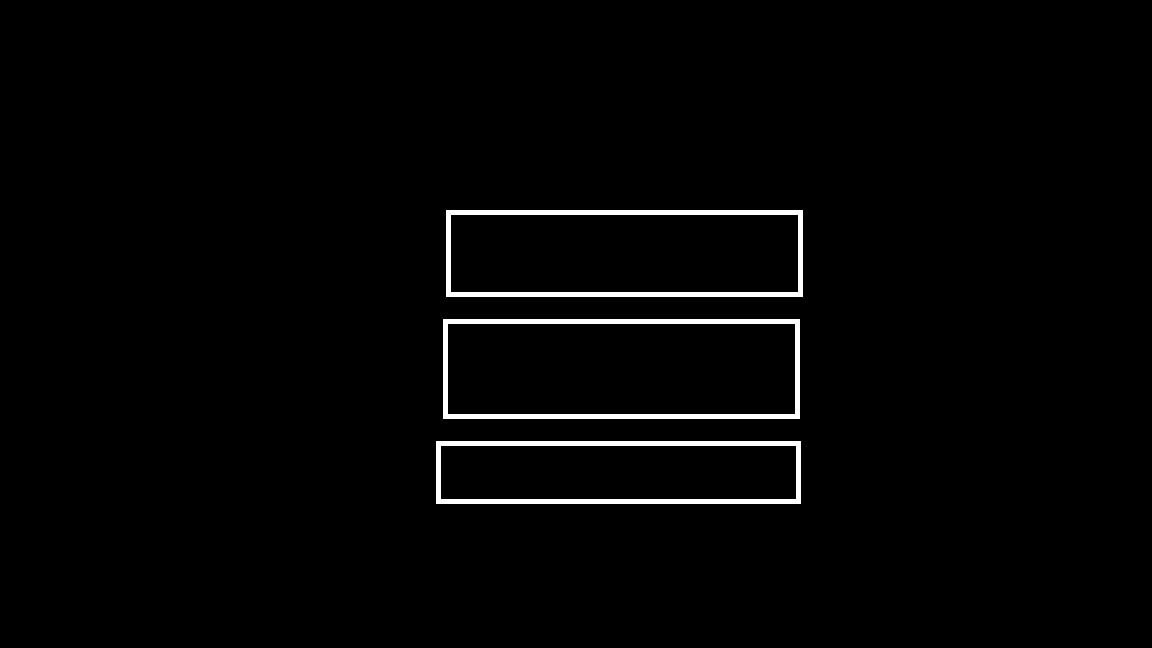
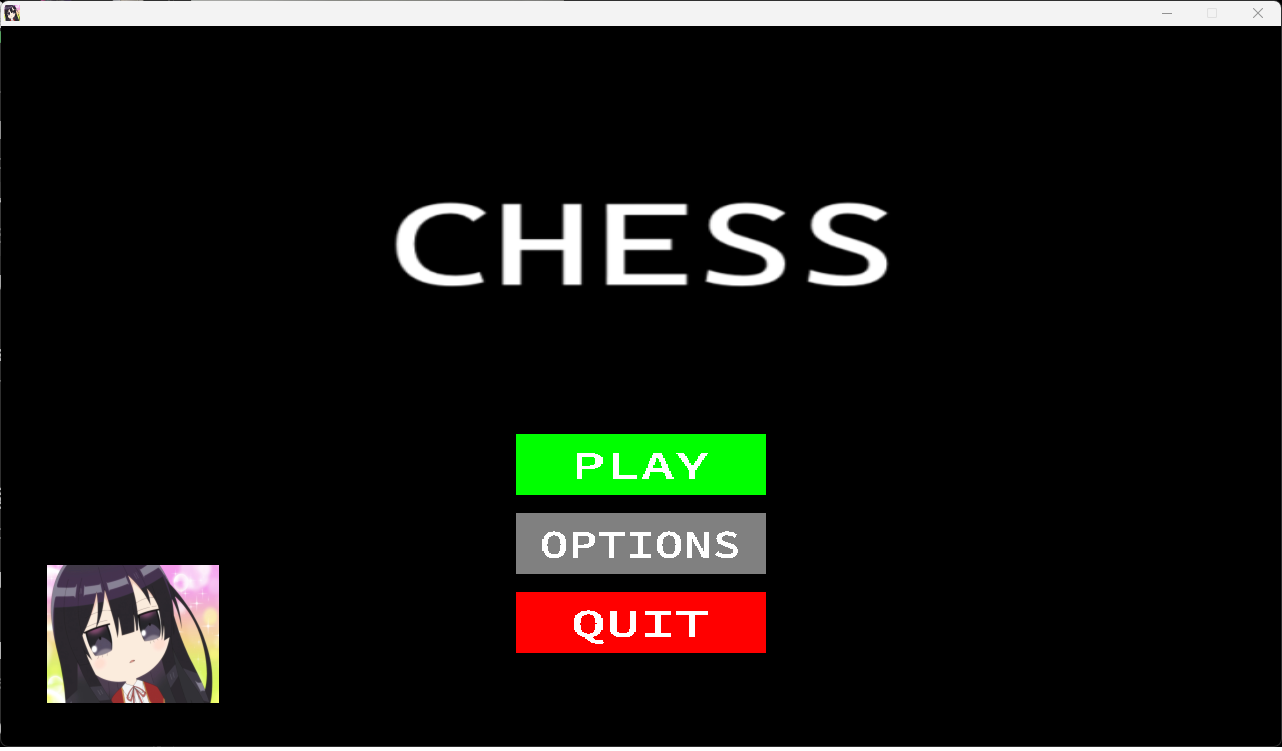
ed

diff --git a/Program.cpp b/Program.cpp
@@ -5,122 +5,83 @@
 #include <SDL2/SDL_mixer.h>
 #include <SDL2/SDL_image.h>
 
+#include "Constant.h"
 #include "Utilities.h"
 
-#define WIDTH               1280
-#define HEIGHT              720
-#define FPS                 120
-
-SDL_Window* Init();
+SDL_Window* InitWindow();
 void InitDriver(SDL_Window* window);
 SDL_Renderer* InitRenderer(SDL_Window* window);
-void MainLoop(std::function<void(SDL_Renderer*)>& loopFunc, std::function<void(SDL_Event*)>& eventFunc);
+
+void MainLoop(void(*loopFunc)(), void(*eventFunc)(SDL_Event* event));
 void CleanUp();
 
+// global window's objects
 SDL_Window* window;
 SDL_Renderer* renderer;
+bool running = true;
 
-TTF_Font* gSemiBold;
+Scene startScene;
+void InitStartScene() {
+    TTF_Font* primaryFont = TTF_OpenFont("./assets/font/SourceCodePro-SemiBold.ttf", 40);
+    TTF_Font* titleFont = TTF_OpenFont("./assets/font/SourceCodePro-ExtraBold.ttf", 100);
+    int btnW = 250, btnH = 65, posx = CalcPadding(WIDTH, btnW), posy = CalcPadding(HEIGHT, btnH) + btnH;
 
-class GameObject {
-private:
-    SDL_Texture* texture;
-    SDL_Rect position;
-public:
-    GameObject(SDL_Texture* texture, SDL_Rect position) : texture(texture), position(position) {}
-    GameObject(SDL_Renderer* renderer, SDL_Rect position) : position(position) {
-        this->texture = SDL_CreateTexture(renderer, SDL_PIXELFORMAT_RGBA8888, SDL_TEXTUREACCESS_TARGET, position.w, position.h);
+    GameObject* playBtn_ = CreateBtnObj(renderer, { "PLAY",primaryFont,white }, green, { posx,posy,btnW,btnH });
+    GameObject* optBtn_ = CreateBtnObj(renderer, { "OPTIONS",primaryFont,white }, grey, { posx,posy += btnH * 1.3,btnW,btnH });
+    GameObject* quitBtn_ = CreateBtnObj(renderer, { "QUIT",primaryFont,white }, red, { posx,posy += btnH * 1.3,btnW,btnH });
+
+    SDL_Texture* texture = WriteText(renderer, titleFont, "CHESS", white);
+    GameObject* test = new GameObject{ texture, new SDL_Rect{ CalcPadding(WIDTH,300),50,300,100 },-10 };
+
+    startScene.objects["playButton"] = playBtn_;
+    startScene.objects["optionButton"] = optBtn_;
+    startScene.objects["quitButton"] = quitBtn_;
+    startScene.objects["test"] = test;
+
+
+    startScene.displayObjects[playBtn_] = true;
+    startScene.displayObjects[optBtn_] = true;
+    startScene.displayObjects[quitBtn_] = true;
+    startScene.displayObjects[test] = true;
+
+    TTF_CloseFont(primaryFont);
+    TTF_CloseFont(titleFont);
+}
+void LoopStartScene() {
+    for (auto const& [key, value] : startScene.objects) {
+        if (startScene.displayObjects.at(value)) SDL_RenderCopyEx(renderer, value->texture, NULL, value->pos, value->angle, NULL, SDL_FLIP_NONE);
     }
-    GameObject(SDL_Renderer* renderer, SDL_Rect position, SDL_Color color) : position(position) {
-        this->texture = SDL_CreateTexture(renderer, SDL_PIXELFORMAT_RGBA8888, SDL_TEXTUREACCESS_TARGET, position.w, position.h);
+}
 
-        SDL_Rect rect = { 0,0,position.w,position.h };
-        SDL_SetRenderTarget(renderer, texture);
-        SDL_SetRenderDrawColor(renderer, color.r, color.g, color.b, color.a);
-        SDL_RenderFillRect(renderer, &rect);
+void EventStartScene(SDL_Event* event) {
 
-        SDL_SetRenderTarget(renderer, NULL);
+}
+
+void CleanStartScene() {
+    startScene.displayObjects.clear();
+    for (auto const& [key, value] : startScene.objects) {
+        SDL_DestroyTexture(value->texture);
+        delete value->pos;
+        delete value;
     }
-    GameObject(SDL_Renderer* renderer, SDL_Surface* surface, SDL_Rect position) : position(position) {
-        this->texture = SDL_CreateTextureFromSurface(renderer, surface);
-    }
-    ~GameObject() { SDL_DestroyTexture(texture); }
-
-    void AddTexture(SDL_Renderer* renderer, SDL_Texture* texture, SDL_Rect localPosition) {
-        SDL_SetRenderTarget(renderer, texture);
-        SDL_RenderCopy(renderer, texture, NULL, &localPosition);
-        SDL_SetRenderTarget(renderer, NULL);
-    }
-    void AddTexture(SDL_Renderer* renderer, SDL_Surface* surface, SDL_Rect localPosition) {
-        SDL_Texture* texture = SDL_CreateTextureFromSurface(renderer, surface);
-
-        SDL_SetRenderTarget(renderer, this->texture);
-        SDL_RenderCopy(renderer, texture, NULL, &localPosition);
-        SDL_SetRenderTarget(renderer, NULL);
-
-        SDL_DestroyTexture(texture);
-    }
-    void AddTexture(SDL_Renderer* renderer, SDL_Rect localPosition, SDL_Color color) {
-        SDL_SetRenderTarget(renderer, this->texture);
-        SDL_RenderFillRect(renderer, &localPosition);
-        SDL_SetRenderTarget(renderer, NULL);
-    }
-
-    SDL_Texture* GetTexture() const { return texture; }
-    SDL_Rect GetHitbox() const { return position; }
-
-    void Display(SDL_Renderer* renderer) const { SDL_RenderCopy(renderer, this->texture, NULL, &this->position); };
-};
-
-class Scene {
-private:
-    std::string name;
-    std::map<std::string, GameObject*> objects;
-public:
-    Scene(std::string name) : name(name), objects({}) {}
-    ~Scene() {
-        for (std::pair<std::string, GameObject*> x : objects) delete x.second;
-    }
-
-    void AddTexture(std::string name, SDL_Texture* texture, SDL_Rect position) {
-        GameObject* object = new GameObject(texture, position);
-        this->AddTexture(name, object);
-    }
-    void AddTexture(std::string name, GameObject* gameObject) {
-        this->objects[name] = gameObject;
-    }
-
-    void RemoveTexture(std::string name) {
-        delete this->objects.at(name);
-        this->objects.erase(name);
-    }
-    GameObject* GetGameObject(std::string name) { return this->objects.at(name); }
-
-    std::function<void(SDL_Renderer* renderer)> MainLoop;
-    std::function<void(SDL_Event* event)> EventListener;
-};
+}
 
 int main(int argc, char* argv[]) {
-    window = Init();
+    window = InitWindow();
     InitDriver(window);
     renderer = InitRenderer(window);
 
-    Scene startScene("startScene");
+    InitStartScene();
 
-    startScene.MainLoop = [&](SDL_Renderer* renderer) {};
-    startScene.EventListener = [&](SDL_Event* event) {
+    MainLoop(LoopStartScene, EventStartScene);
 
-        };
-
-    MainLoop(startScene.MainLoop, startScene.EventListener);
-
-    /* Release resources */
+    CleanStartScene();
     CleanUp();
 
     return 0;
 }
 
-SDL_Window* Init() {
+SDL_Window* InitWindow() {
     if (SDL_Init(SDL_INIT_EVERYTHING) != 0) {
         printf("Error initializing SDL: %s\n", SDL_GetError());
         exit(1);
@@ -138,13 +99,13 @@ SDL_Window* Init() {
 void InitDriver(SDL_Window* window) {
     if (TTF_Init() < 0) {
         printf("%s", TTF_GetError());
-        TTF_Quit();
+        CleanUp();
         exit(1);
     }
 
     if (IMG_Init(63) == 0) {
         std::cout << "Error Init Image" << std::endl;
-        IMG_Quit();
+        CleanUp();
         exit(1);
     }
 
@@ -152,8 +113,6 @@ void InitDriver(SDL_Window* window) {
     SDL_Surface* surface = IMG_Load("./assets/image/icon.png");
     SDL_SetWindowIcon(window, surface);
     SDL_FreeSurface(surface);
-
-    gSemiBold = TTF_OpenFont("./assets/font/SourceCodePro-SemiBold.ttf", 40);
 }
 SDL_Renderer* InitRenderer(SDL_Window* window) {
     SDL_Renderer* rend = SDL_CreateRenderer(window, -1, SDL_RENDERER_ACCELERATED | SDL_RENDERER_PRESENTVSYNC);
@@ -169,8 +128,7 @@ SDL_Renderer* InitRenderer(SDL_Window* window) {
     return rend;
 }
 
-void MainLoop(std::function<void(SDL_Renderer*)>& loopFunc, std::function<void(SDL_Event*)>& eventFunc) {
-    bool running = true;
+void MainLoop(void(*loopFunc)(), void(*eventFunc)(SDL_Event* event)) {
     SDL_Event event;
 
     while (running) {
@@ -178,7 +136,7 @@ void MainLoop(std::function<void(SDL_Renderer*)>& loopFunc, std::function<void(S
         SDL_SetRenderDrawColor(renderer, 0, 0, 0, 255);
         SDL_RenderClear(renderer);
 
-        loopFunc(renderer);
+        loopFunc();
 
         SDL_RenderPresent(renderer);
         while (SDL_PollEvent(&event)) {
@@ -193,7 +151,6 @@ void MainLoop(std::function<void(SDL_Renderer*)>& loopFunc, std::function<void(S
 void CleanUp() {
     SDL_DestroyRenderer(renderer);
     SDL_DestroyWindow(window);
-    TTF_CloseFont(gSemiBold);
 
     TTF_Quit();
     IMG_Quit();

diff --git a/src/Utilities.cpp b/src/Utilities.cpp
@@ -28,3 +28,29 @@ SDL_Texture* DisplayImage(SDL_Renderer* renderer, std::string const path) {
 
     return texture;
 }
+
+SDL_Texture* CreateBtnTex(SDL_Renderer* renderer, SDL_Texture* text, SDL_Color color, int width, int height) {
+    int w, h; SDL_QueryTexture(text, nullptr, nullptr, &w, &h);
+    SDL_Texture* result = SDL_CreateTexture(renderer, SDL_PIXELFORMAT_RGBA8888, SDL_TEXTUREACCESS_TARGET, w + width, h + height);
+
+    SDL_Rect fillRect{ 0,0,w + width,h + height }, imgRect{ width / 2,height / 2,w,h };
+
+    SDL_SetRenderTarget(renderer, result);
+    SDL_SetRenderDrawColor(renderer, color.r, color.g, color.b, color.a);
+    SDL_RenderFillRect(renderer, &fillRect);
+    SDL_RenderCopy(renderer, text, NULL, &imgRect);
+    SDL_SetRenderTarget(renderer, NULL);
+
+    SDL_DestroyTexture(text);
+
+    return result;
+}
+
+// template <typename T> T CalcPadding(T width, T innerWidth) { return (width - innerWidth) / 2; }
+GameObject* CreateBtnObj(SDL_Renderer* renderer, TextObj text, SDL_Color color, SDL_Rect position) {
+    int w, h; TTF_SizeText(text.font, text.content.c_str(), &w, &h);
+    SDL_Texture* texture = WriteText(renderer, text.font, text.content, text.color);
+    SDL_Texture* button = CreateBtnTex(renderer, texture, color, CalcPadding(position.w, w), CalcPadding(position.h, h));
+
+    return new GameObject{ button,new SDL_Rect(position) ,0 };
+}

diff --git a/src/Utilities.h b/src/Utilities.h
@@ -1,11 +1,37 @@
 #pragma once
 
 #include <string>
+#include <vector>
+#include <map>
 
 #include <SDL2/SDL.h>
 #include <SDL2/SDL_ttf.h>
 #include <SDL2/SDL_image.h>
 
+#define CalcPadding(width, innerWidth)          (((width) - (innerWidth)) / 2)
+
+struct GameObject {
+    SDL_Texture* texture;
+    SDL_Rect* pos;
+    int angle;
+};
+struct Scene {
+    std::map<std::string, GameObject*> objects;
+    std::map<GameObject*, bool> displayObjects;
+};
+
+struct TextObj {
+    std::string content;
+    TTF_Font* font;
+    SDL_Color color;
+};
+
 SDL_Texture* WriteText(SDL_Renderer* renderer, TTF_Font* font, std::string const message, SDL_Color color);
 SDL_Texture* DrawRect(SDL_Renderer* renderer, int width, int height, SDL_Color color = { 255,255,255,255 });
 SDL_Texture* DisplayImage(SDL_Renderer* renderer, std::string const path);
+
+SDL_Texture* CreateBtnTex(SDL_Renderer* renderer, SDL_Texture* text, SDL_Color color, int width = 10, int height = 10);
+
+GameObject* CreateBtnObj(SDL_Renderer* renderer, TextObj text, SDL_Color color, SDL_Rect position);
+
+// template <typename T> T CalcPadding(T width, T innerWidth);

diff --git a/Constant.h b/Constant.h
@@ -1,0 +1,23 @@
+#pragma once
+
+#include "SDL2/SDL.h"
+
+#define WIDTH               1280
+#define HEIGHT              720
+#define FPS                 120
+#define PI                  3.141592653
+
+const SDL_Color white{ 255,255,255,255 };
+const SDL_Color black{ 0,0,0,255 };
+
+const SDL_Color red{ 255,0,0,255 };
+const SDL_Color green{ 0,255,0,255 };
+const SDL_Color blue{ 0,0,255,255 };
+
+const SDL_Color cyan{ 0,255,255,255 };
+const SDL_Color orange{ 255,255,0,255 };
+const SDL_Color pink{ 255,0,255,255 };
+const SDL_Color yellow{ 255,255,0,255 };
+
+const SDL_Color purple{ 128,0,255,255 };
+const SDL_Color grey{ 128,128,128,128 };
